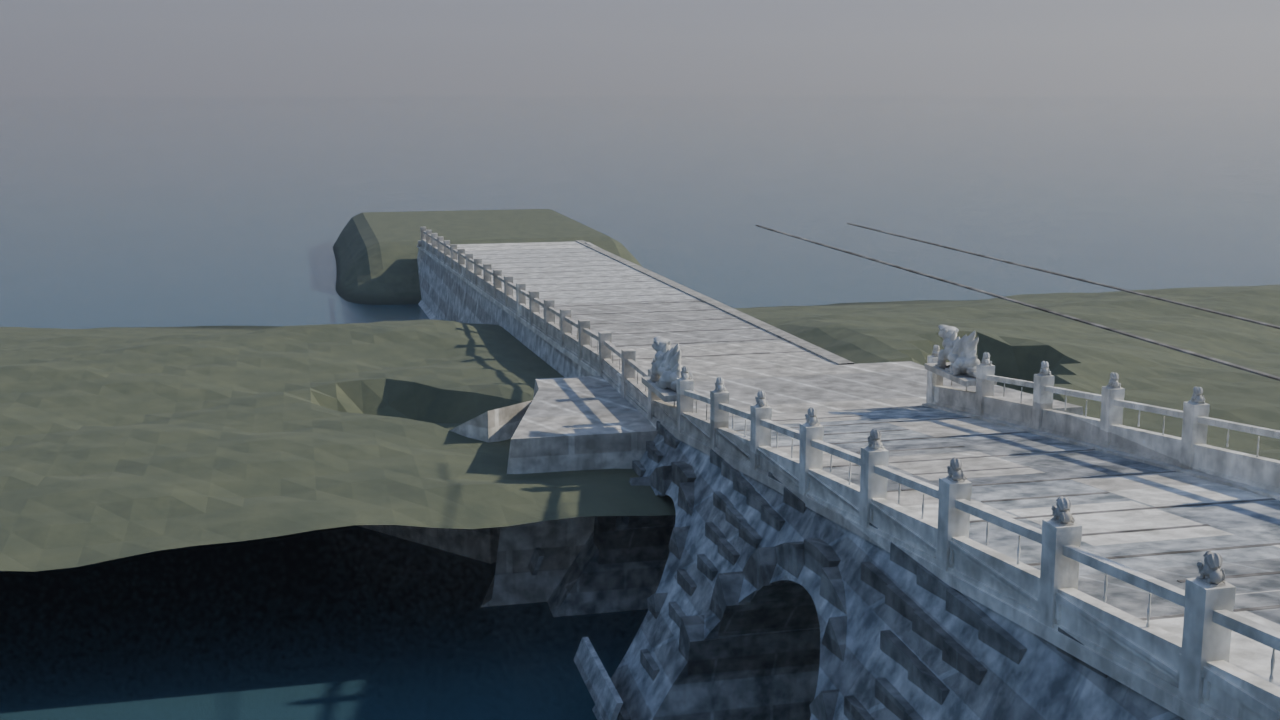
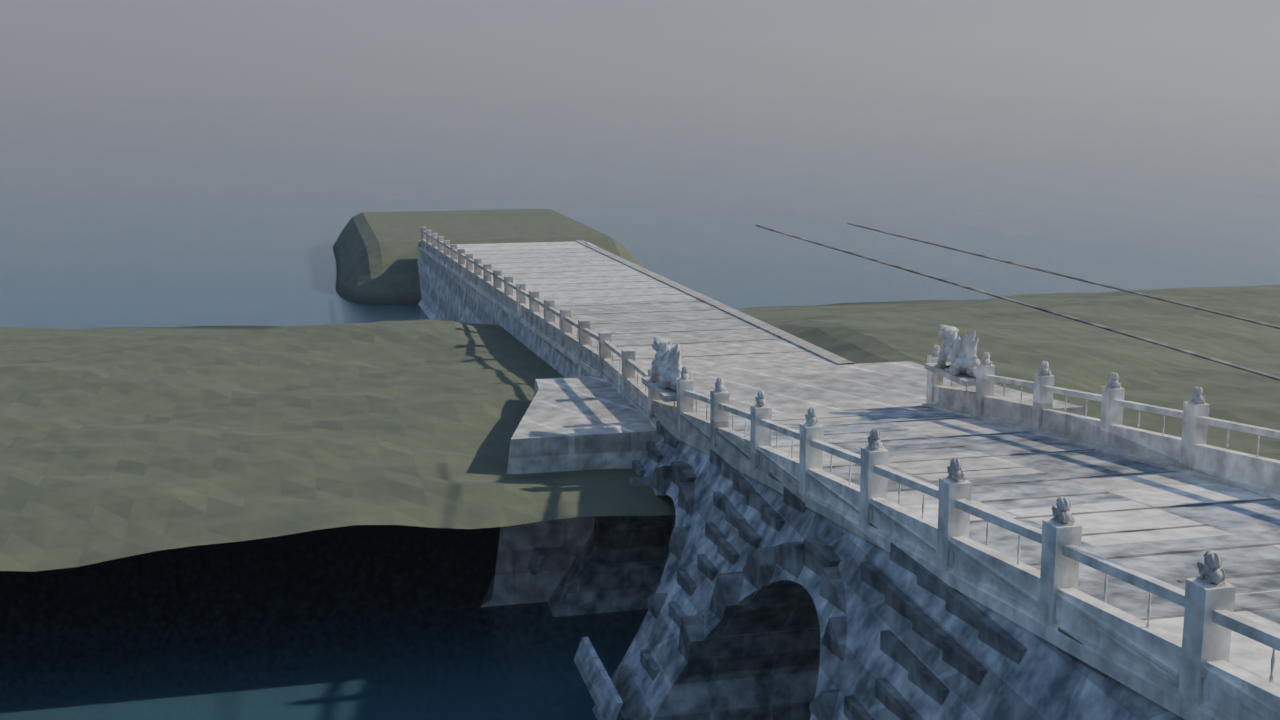
fix(e30): M15x4 燕翅墙整体删除——三轮目视修(尖端+0.35悬空/埋0.55中段悬空/缩6m仍悬空)定性: 直线下斜墙身与走廊限高自我下压的岸坡互斥, 是纯负资产; 挡墙读感由坡道实腹侧墙+台体梯形八字平面承担; C5断言随对象删除; 更正上笔(228aa66)信息: 当时C5实为1 FAIL, 本笔起断言真实全绿(0 FAIL)/L2过

Changed region(s): [[0.2812, 0.5194, 0.4375, 0.6417], [0.75, 0.4583, 0.8438, 0.55], [0.3125, 0.7333, 0.4062, 0.7944]]

diff --git a/e30_shikongqiao_video/3d/build_scene2.py b/e30_shikongqiao_video/3d/build_scene2.py
@@ -656,27 +656,10 @@ def build():
         # (1) 实腹坡道: u ∈ [5.14, 47.14], 顶面沿坡, 根嵌台帽前脸 0.06
         _loft(x_e, sgn, [RAMP_U0 + RAMP_L * i / 14.0 for i in range(15)],
               _hw_ramp, _ztop_ramp)
-        # (2) 燕翅墙 x2: 根部自台体腰部埋入 0.35(防露缝)八字斜展, 顶面沿轴从台帽
-        #     标高下斜至岸顶上方 0.35m, 墙身直落水底基床。
-        for side in (-1, 1):
-            # 方向随 sgn 镜像(修复 M14 隐性 bug: 旧 d 恒 +x, -x 端翼墙反指桥内
-            # 17.5m, 真实树实测 abutment_ground min|x|=57.5 暴露)
-            d = Vector((sgn * math.cos(WING_ANG), side * math.sin(WING_ANG)))
-            n = Vector((-sgn * side * math.sin(WING_ANG), math.cos(WING_ANG)))  # 离轴法向
-            z_root, z_tip = ABUT_TOP_Z, 0.55  # [M15 目视修x2] 尖端落在岸坡低处, -0.25 仍悬空(坡面比预想低), 沉到 0.55 深埋, 露出段自然终止于地面
-            A = Vector((x_e + sgn * WING_ROOT_U, side * WING_ROOT_Y))
-            B = A + d * WING_L
-            pts = [(A.x, A.y), (B.x, B.y),
-                   (B.x + n.x * WING_T, B.y + n.y * WING_T),
-                   (A.x + n.x * WING_T, A.y + n.y * WING_T)]
-            def _ztop(px, py):
-                f = max(0.0, min(1.0, (Vector((px, py)) - A).dot(d) / WING_L))
-                return z_root * (1.0 - f) + z_tip * f
-            vs = [ab.verts.new((px, py, BED_BOTTOM)) for px, py in pts] \
-               + [ab.verts.new((px, py, _ztop(px, py))) for px, py in pts]
-            for f in ((4,5,6,7), (0,3,2,1), (0,1,5,4), (1,2,6,5), (2,3,7,6), (3,0,4,7)):
-                try: ab.faces.new([vs[k] for k in f])
-                except ValueError: pass
+        # (2) [M15 目视修x4] 燕翅墙删除: 三轮尝试(尖端+0.35悬空/埋0.55仍悬空/
+        #     缩6m)均败——直线下斜墙身与走廊限高自我下压的岸坡无法自洽, 是纯负
+        #     资产。七审"连续斜向挡墙"由坡道侧墙(随 road_half 连续展宽)承担,
+        #     八字收头感由台体梯形平面(根半宽6.50->前脸5.00)提供。
     bmesh.ops.recalc_face_normals(ab, faces=ab.faces[:]); ab.normal_update()
     # 桥台/坡道专署砌石材质(七审"石面露出带层次"): 横缝分层 course_h=0.62(照片下碱
     # 横缝节奏, 缝宽/凹深加强让远景读得出层) + 水线以下加深, 与桥身 qingshi 区分。
@@ -748,21 +731,8 @@ def build():
                 wu = 1.0 if u <= 40.0 else _sm((44.0 - u) / 4.0)
                 wv = _sm((half + 2.5 - abs(v)) / 2.5)
                 caps.append((road_top(u) - RAMP_REVEAL, wu * wv))
-            # 燕翅墙走廊 x2: 墙顶下 0.75
-            for side in (-1, 1):
-                ax_ = WING_ROOT_U
-                ay_ = side * WING_ROOT_Y
-                dx_ = math.cos(WING_ANG)
-                dy_ = side * math.sin(WING_ANG)
-                t = ((u - ax_) * dx_ + (v - ay_) * dy_) / WING_L
-                t = max(0.0, min(1.0, t))
-                cx_ = ax_ + dx_ * WING_L * t
-                cy_ = ay_ + dy_ * WING_L * t
-                dist = math.hypot(u - cx_, v - cy_)
-                lim = WING_T / 2.0 + 0.9
-                if dist < lim:
-                    z_w = ABUT_TOP_Z * (1.0 - t) + (BANK_Z + 0.35) * t
-                    caps.append((z_w - RAMP_REVEAL, _sm((lim - dist) / 0.9)))
+            # [M15x4] 燕翅墙走廊随翼墙删除
+
             return caps
         # 2026-10-05 修"岸坡生硬立方体"(主控量化: 岸缘水平梯度 max 81.7):
         #   ① 网格 24x40 -> 72x120: 4m 级刻面让岸线读成折线硬边;

diff --git a/e30_shikongqiao_video/3d/_check_abutment.py b/e30_shikongqiao_video/3d/_check_abutment.py
@@ -96,26 +96,7 @@ for v in bank.data.vertices:
             bad_r += 1
 check(bad_r == 0, "C4 坡道走廊内岸坡超高点=0 (查 %d 点, 最大越界 %.4f)" % (n_r, maxover_r))
 
-# C5 翼墙走廊无穿模 (窗口=cap 权重 1 的墙轴带 dist<WING_T/2)
-bad_w, n_w, maxover_w = 0, 0, -1e9
-dx_, dy_ = math.cos(WING_ANG), math.sin(WING_ANG)
-for v in bank.data.vertices:
-    u, y, z = abs(v.co.x) - HALF, v.co.y, v.co.z
-    for side in (-1, 1):
-        ay = side * WING_Y
-        s_raw = ((u - WING_U) * dx_ + (y - ay) * side * dy_) / WING_L
-        if s_raw < -0.02 or s_raw > 1.02:      # 墙已终止: 尖端外圆域不是走廊
-            continue
-        t = max(0.0, min(1.0, s_raw))
-        cx, cy = WING_U + dx_ * WING_L * t, ay + side * dy_ * WING_L * t
-        dist = math.hypot(u - cx, y - cy)
-        if dist < WING_T / 2.0:
-            n_w += 1
-            over = z - (wing_top(t) - 0.70)
-            maxover_w = max(maxover_w, over)
-            if over > 1e-6:
-                bad_w += 1
-check(bad_w == 0, "C5 翼墙走廊内岸坡超高点=0 (查 %d 点, 最大越界 %.4f)" % (n_w, maxover_w))
+# C5 已随翼墙删除(M15目视修x4): 翼墙为纯负资产, 断言无对象
 
 # C6 接岸地坪: 坡端外侧地坪存在且等于 PAD_Z(端面没入, 无临空)
 padz, tipz2, n_p, n_t = [], [], 0, 0
